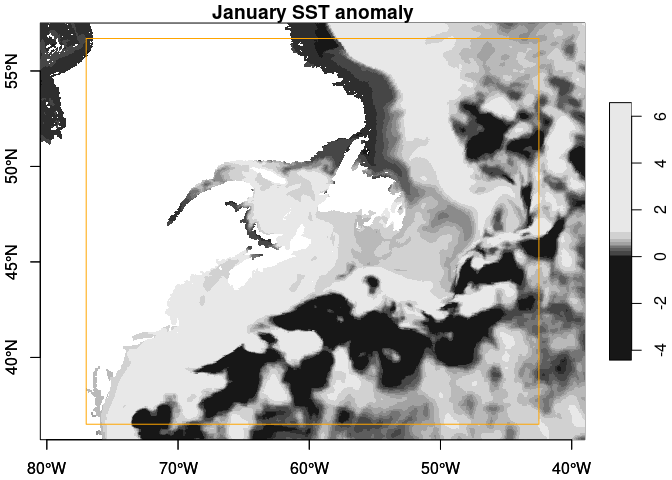
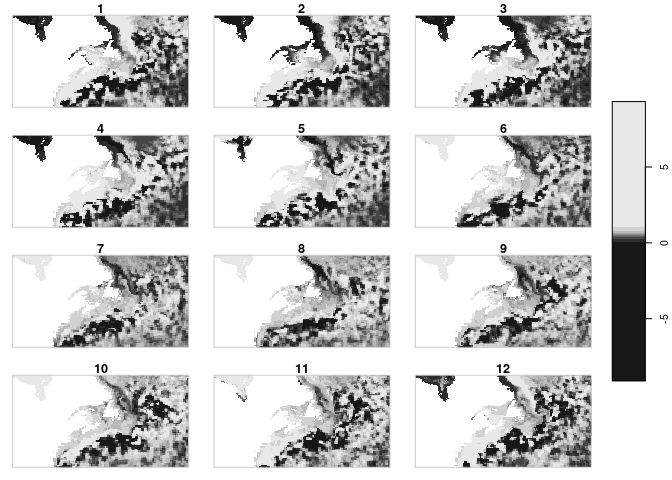
finalize warping, update README

diff --git a/README.md b/README.md
@@ -52,6 +52,8 @@ suppressPackageStartupMessages({
     library(brickman)
     library(sf)
     library(dplyr)
+    library(tidyr)
+    library(ggplot2)
   })
 
 x <- brickman::read_brickman(scenario ='RCP85', year = 2055, vars = 'SST', interval = "mon")
@@ -60,7 +62,7 @@ plot(x)
 
 ![](README_files/figure-gfm/unnamed-chunk-1-1.png)<!-- -->
 
-#### Plotting a portion
+#### Plotting a portion of curvilinear grid
 
 You can display a portion of a curvilinear grid by specifying the
 drawing extent. Note that by default R expands the plotting region. The
@@ -71,29 +73,75 @@ extent.
 bb = c(xmin = -77, ymin = 36.5, xmax = -42.5, ymax = 56.7) |>
   st_bbox(crs = st_crs(x)) 
 box = st_as_sfc(bb)  
-plot(dplyr::slice(x, "month", 1), 
-     main = "January SST anomaly", 
+plot(x, 
      extent = bb, 
      reset = FALSE,
-     axes = TRUE)
+     axes = FALSE)
+```
+
+    ## downsample set to 5
+
+``` r
 plot(box, color = NA, border = "orange", add = TRUE)
 ```
 
 ![](README_files/figure-gfm/unnamed-chunk-2-1.png)<!-- -->
 
-### Subsetting/Cropping
+### Subsetting/Cropping by transforming to regular grid
 
-Subsettng and cropping curvilinear grid is not supported by
-[stars](https://CRAN.R-project.org/package=stars). But it does mask
-regular grids, so transforming to a regular grid can help.
+Subsetting and cropping curvilinear grid is not supported by
+[stars](https://CRAN.R-project.org/package=stars) because (I think) gdal
+doesn’t support it. We can transform (warp) to a regular grid and then
+subset.
 
 ``` r
-sf::sf_use_s2(FALSE)
 box4326 = st_transform(box, 4326)
-warped = st_warp(dplyr::slice(x, "month", 1), crs = box4326)
+warped = warp_brickman(x, crs = sf::st_crs(box4326))
 sub = warped[bb]
-plot(sub, reset = FALSE, axes = TRUE)
-plot(box4326, add = TRUE, color = NA, border = "orange")
+plot(sub, reset = FALSE)
 ```
 
 ![](README_files/figure-gfm/unnamed-chunk-3-1.png)<!-- -->
+
+### Extracting
+
+Points can be extracted easily from the regular grid.
+
+``` r
+points = sf::st_sample(sf::st_as_sfc(bb), 100)
+
+px = stars::st_extract(warped, points) |>
+  sf::st_as_sf() |>
+  rlang::set_names(c(month.abb, "geometry")) |>
+  tidyr::pivot_longer(where(is.numeric),
+                      names_to = "month",
+                      values_to = "SST") |>
+  dplyr::mutate(mon = match(month, month.abb)) |>
+  dplyr::filter(!is.na(SST))
+
+
+plot_hook = function(..., row = 0, col = 0, nr = 0, nrow = 0, ncol = 0, value = 0, bbox = NULL) {
+  #cat("nr = ", nr, class(nr), "\n")
+  z = dplyr::filter(px, mon == nr)
+  plot(z['SST'], col = "orange", add = TRUE)
+}
+
+plot(sub, hook = plot_hook)
+```
+
+![](README_files/figure-gfm/unnamed-chunk-4-1.png)<!-- -->
+
+``` r
+px = px |>
+  dplyr::mutate(month = factor(month, levels = month.abb)) 
+ggplot() +
+  geom_sf(data = px, aes(color = SST)) +
+  scale_color_gradient2(low = "blue", 
+                       high = "red", 
+                       na.value = "grey75", 
+                       name = "value",
+                       limits = c(2,-2)) + 
+  facet_wrap(~month)
+```
+
+![](README_files/figure-gfm/unnamed-chunk-5-1.png)<!-- -->
